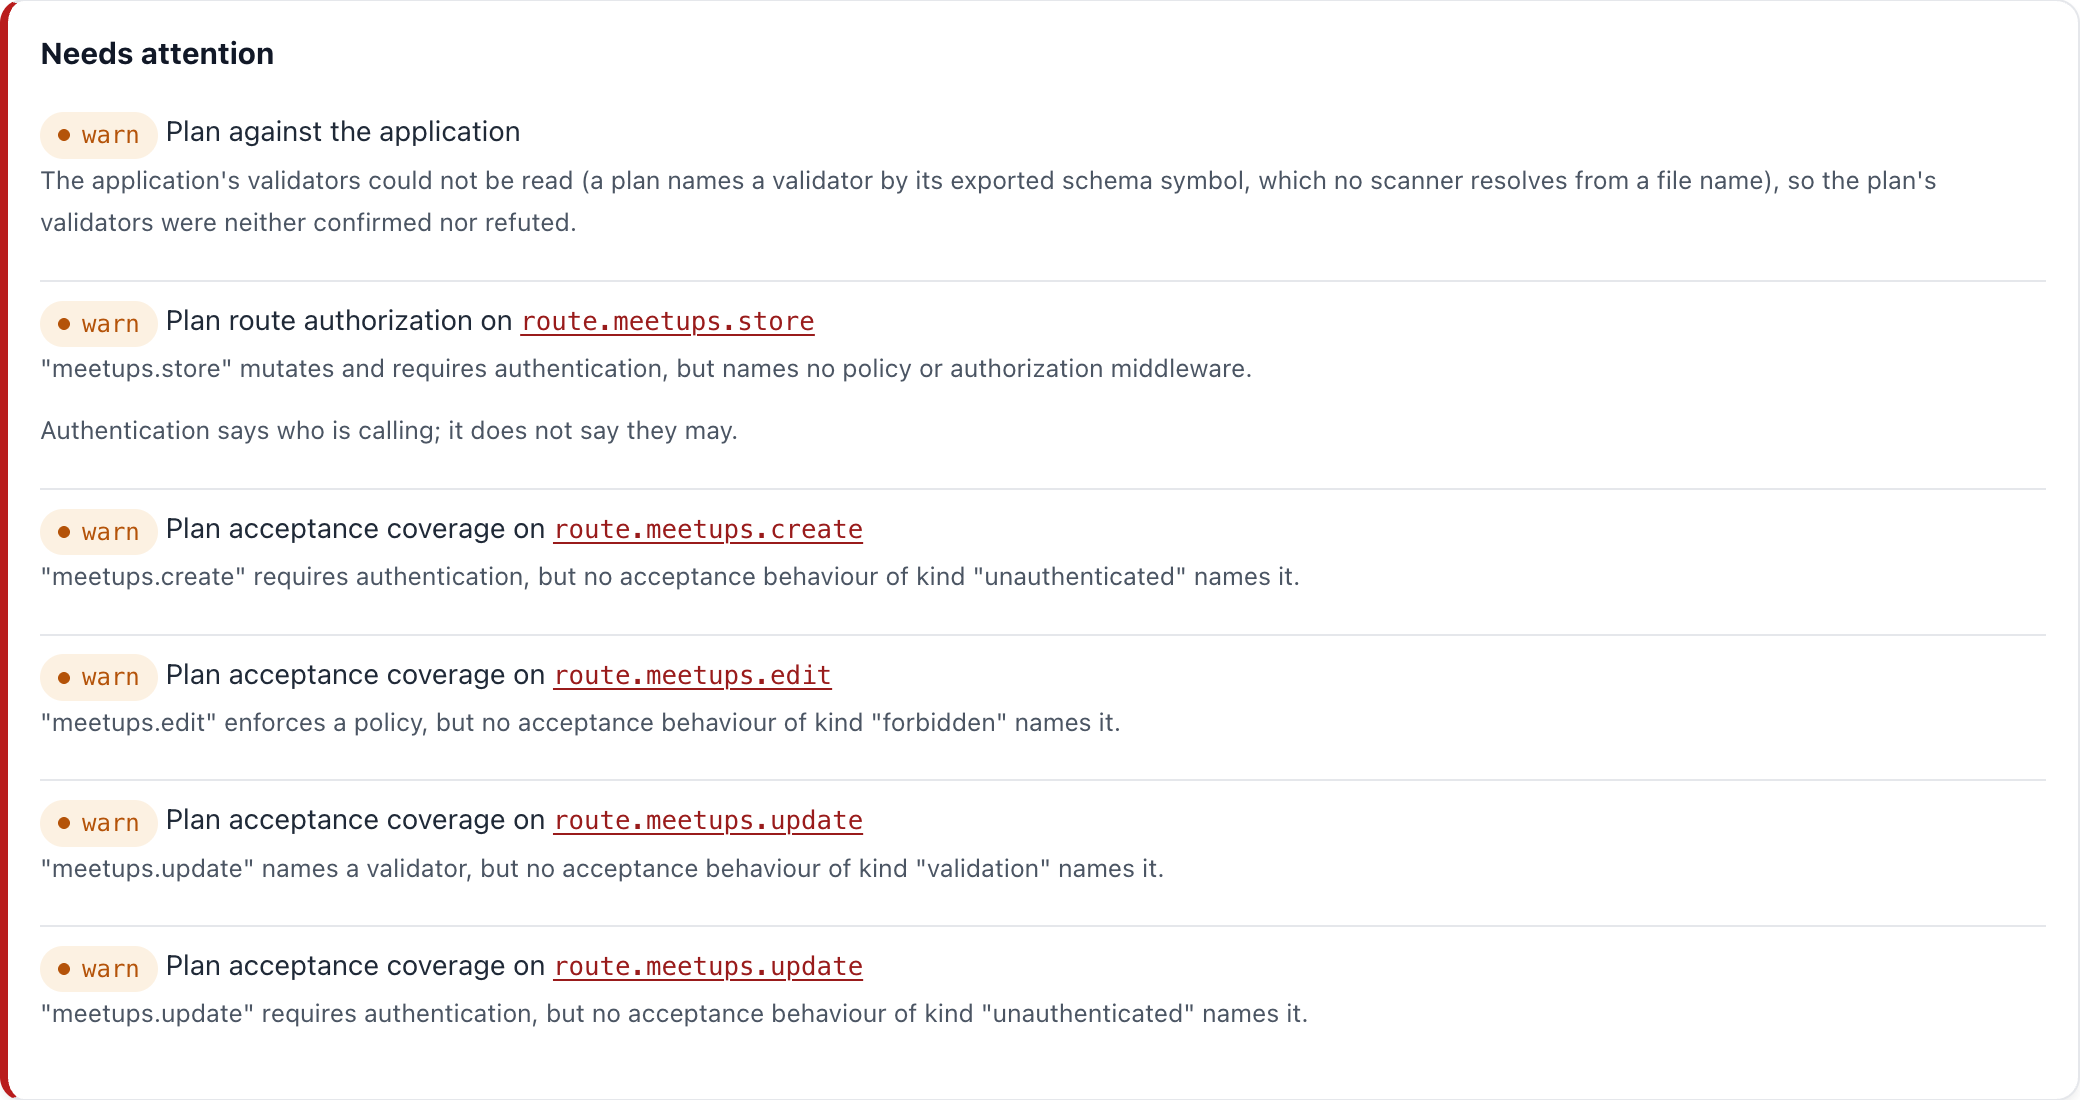
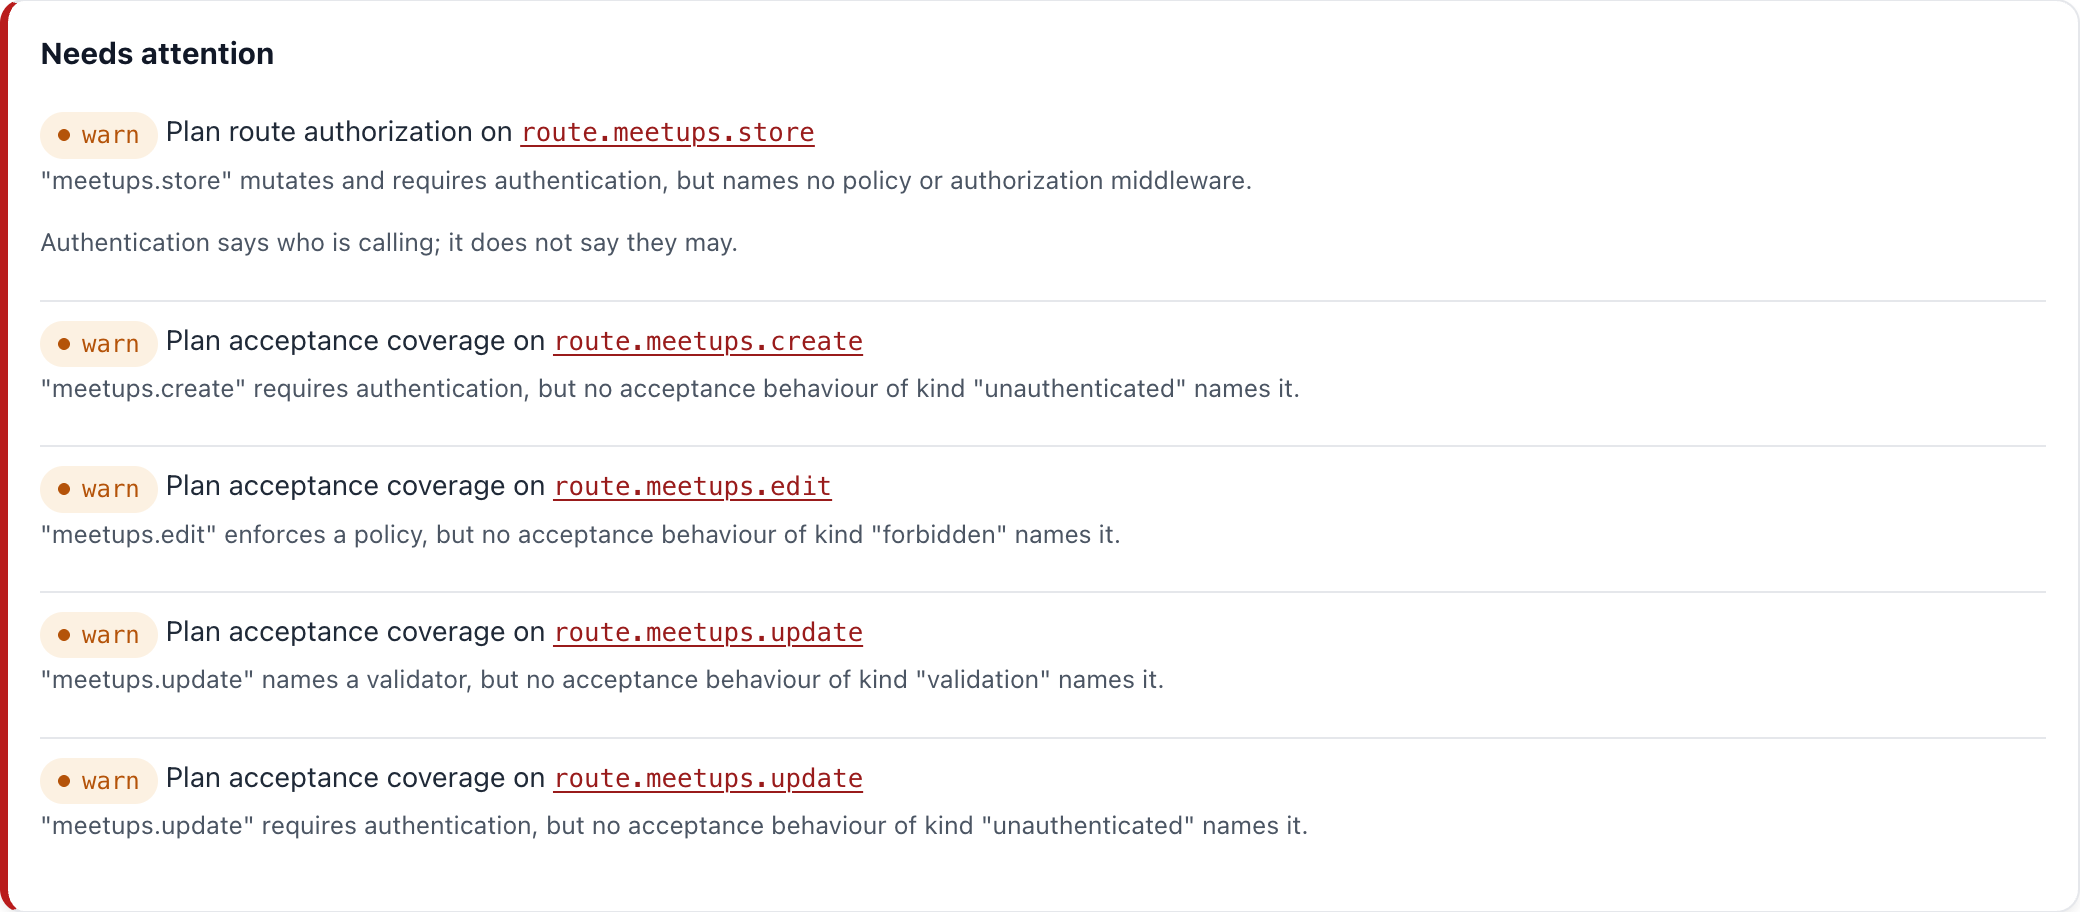
docs: follow the plan fixes in the agent course
The validator warning no longer appears, scaffolded controllers pass
the record to authorize(), test skeletons boot in beforeAll and
expose ready(), and plan:next sends an already scaffolded step to
plan:verify. The chapters, reference tests and the Needs attention
screenshot now describe that behaviour.

Changed region(s): [[0.0, 0.2456, 0.625, 0.7982], [0.0, 0.0307, 0.9375, 0.2149], [0.0, 0.8289, 0.625, 0.9518]]

diff --git a/docs/ja/agent-course/04-one-step-at-a-time.md b/docs/ja/agent-course/04-one-step-at-a-time.md
@@ -78,9 +78,13 @@ import { User, type UserRecord } from '../../../app/Models/User.js'
 
 let booted: Promise<TestApp> | undefined
 
-async function client(actor?: object): Promise<TestApp> {
+function ready(): Promise<TestApp> {
   booted ??= import('../../../src/app.js').then(({ default: app }) => TestApp.fromApp(app))
-  const http = actor === undefined ? await booted : (await booted).actingAs(actor)
+  return booted
+}
+
+async function client(actor?: object): Promise<TestApp> {
+  const http = actor === undefined ? await ready() : (await ready()).actingAs(actor)
   return http.withCsrf()
 }
 
@@ -92,7 +96,7 @@ function meetupBy(organizer: UserRecord) {
 }
 
 beforeEach(async () => {
-  await client()
+  await ready()
   await resetDatabase()
   ada = await User.create({ name: 'Ada', email: 'ada@example.com', password: 'correct horse battery' })
   grace = await User.create({ name: 'Grace', email: 'grace@example.com', password: 'correct horse battery' })
@@ -453,7 +457,7 @@ git show --stat HEAD
 | http | `this.authorize('update', [Meetup, meetup])` がクラスだけでなく **レコード** を渡している。`organizerId` はリクエストではなく `this.auth` から来る。Policy が id を比べている |
 | pages | 普通は特にありません。コマンドが確かめます |
 
-いちばん注意したいのは http の行です。scaffold はスタブの時点でレコードを持たないので、`this.authorize('update', Meetup)` とクラスだけを渡すコードを書きます。このままだと Policy は勉強会を受け取れずに全員を拒否し、主催者も自分の勉強会を編集できません。それでも `forbidden` のテストはすべて通ります。失敗するのは、主催者自身の success 振る舞いである `AC-meetups-7` と `AC-meetups-12` だけです。第 2 章のチェック表の 5 行目が効くのはここです。
+いちばん注意したいのは http の行です。scaffold が書く Policy の `update` は、誰かがルールを書くまで `false` を返します。エージェントがコントローラーだけ書いて Policy を忘れると、誰も編集できない機能ができます。それでも `forbidden` のテストはすべて通ります。全員を拒否すれば、拒否すべきユーザーも拒否されるからです。失敗するのは、主催者自身の success 振る舞いである `AC-meetups-7` と `AC-meetups-12` だけです。第 2 章のチェック表の 5 行目が効くのはここです。
 
 ## 5. 計画の現在地
 
@@ -491,9 +495,9 @@ bun run dev
 
 ## よくあるつまずき
 
-- **すべてのテストが "database has not been configured" で失敗する。** `beforeEach` のセットアップが、アプリの起動前にデータベースに触れています。テストの雛形は `client()` の中で遅れてアプリを起動するので、参照用のテストのように最初に `await client()` を呼んでください。
+- **すべてのテストが "database has not been configured" で失敗する。** 自分で書いた `beforeEach` が、アプリの起動前にデータベースに触れています。雛形の冒頭のコメントと参照用のテストのとおり、最初に `await ready()` を呼んでください。
 - **ツリーが汚れているので `plan:next` が拒否する。** ステップが未コミットのままです。次を頼む前にコミットするか、破棄してください。
-- **http ステップが `AC-meetups-7` か `AC-meetups-12` の 403 で失敗する。** コントローラーがまだ `Meetup` だけを `this.authorize` に渡しています。上の http の行を見てください。
+- **http ステップが `AC-meetups-7` か `AC-meetups-12` の 403 で失敗する。** Policy がまだ `false` を返しているか、コントローラーが `[Meetup, meetup]` ではなく `Meetup` だけを `this.authorize` に渡しています。上の http の行を見てください。
 - **エージェントが同じステップを繰り返す。** 止めるのを 3 回阻まれると、Stop hook はステップを理由付きで stalled と記録し、エージェントを止めます。`plan:next` がその stall を示します。続けるよう伝える前に理由を読んでください。
 
 ## 演習

diff --git a/docs/en/agent-course/04-one-step-at-a-time.md b/docs/en/agent-course/04-one-step-at-a-time.md
@@ -78,9 +78,13 @@ import { User, type UserRecord } from '../../../app/Models/User.js'
 
 let booted: Promise<TestApp> | undefined
 
-async function client(actor?: object): Promise<TestApp> {
+function ready(): Promise<TestApp> {
   booted ??= import('../../../src/app.js').then(({ default: app }) => TestApp.fromApp(app))
-  const http = actor === undefined ? await booted : (await booted).actingAs(actor)
+  return booted
+}
+
+async function client(actor?: object): Promise<TestApp> {
+  const http = actor === undefined ? await ready() : (await ready()).actingAs(actor)
   return http.withCsrf()
 }
 
@@ -92,7 +96,7 @@ function meetupBy(organizer: UserRecord) {
 }
 
 beforeEach(async () => {
-  await client()
+  await ready()
   await resetDatabase()
   ada = await User.create({ name: 'Ada', email: 'ada@example.com', password: 'correct horse battery' })
   grace = await User.create({ name: 'Grace', email: 'grace@example.com', password: 'correct horse battery' })
@@ -453,7 +457,7 @@ git show --stat HEAD
 | http | `this.authorize('update', [Meetup, meetup])` passes the **record**, not just the class. `organizerId` comes from `this.auth`, never from the request. The policy compares ids |
 | pages | Nothing, usually. The commands are the check |
 
-The http row carries the rule most worth your attention. The scaffold writes `this.authorize('update', Meetup)`, with the class and no record, because the stub has no record yet. Left that way, the policy gets no meetup, denies everyone, and the organizer cannot edit their own meetup. Every `forbidden` test still passes. Only `AC-meetups-7` and `AC-meetups-12`, the organizer's own success behaviours, fail on it. That is row 5 of the checklist in chapter 2, paying off.
+The http row carries the rule most worth your attention. The scaffold writes a policy whose `update` returns `false` until someone writes the rule. An agent that fills in the controller and forgets the policy leaves a feature nobody can edit, and every `forbidden` test still passes, since refusing everyone refuses the wrong user too. Only `AC-meetups-7` and `AC-meetups-12`, the organizer's own success behaviours, fail on it. That is row 5 of the checklist in chapter 2, paying off.
 
 ## 5. Where the plan stands
 
@@ -491,9 +495,9 @@ Sign up at `/register`, then open `/meetups`.
 
 ## Common trip-ups
 
-- **Every test fails with "database has not been configured".** The setup in `beforeEach` touches the database before the app has booted. The test skeleton boots it lazily in `client()`; call `await client()` first, as the reference test does.
+- **Every test fails with "database has not been configured".** A `beforeEach` of your own touched the database before the app booted. Start it with `await ready()`, as the skeleton's header comment says and the reference test does.
 - **`plan:next` refuses because the tree is dirty.** A step was left uncommitted. Commit it, or discard it, before asking for the next one.
-- **The http step fails on `AC-meetups-7` or `AC-meetups-12` with a 403.** The controller still passes `Meetup` alone to `this.authorize`. See the http row above.
+- **The http step fails on `AC-meetups-7` or `AC-meetups-12` with a 403.** The policy still returns `false`, or the controller passes `Meetup` alone to `this.authorize` instead of `[Meetup, meetup]`. See the http row above.
 - **The agent keeps retrying the same step.** After three blocked stops, the Stop hook records the step as stalled with the reason, and lets the agent stop. `plan:next` shows the stall. Read the reason before telling the agent to go on.
 
 ## Exercises

diff --git a/docs/ja/agent-course/02-the-first-plan.md b/docs/ja/agent-course/02-the-first-plan.md
@@ -429,7 +429,7 @@ open docs/plans/meetups/plan.html
 
 ページはネットワークにアクセスしないので、そのままレビュー依頼に添付できます。
 
-![Meetups 計画のレビューページの上部。目標、非目標、前提の下に「Needs attention」パネルがあり、警告が 6 件並んでいます。validator を読めないという警告が 1 件、meetups.store に policy がないという警告が 1 件、ある種類の受け入れ振る舞いがないルートについての警告が 4 件です](../../images/agent-course-needs-attention.png)
+![Meetups 計画のレビューページの「Needs attention」パネル。警告が 5 件並んでいます。meetups.store に policy がないという警告が 1 件、ある種類の受け入れ振る舞いがないルートについての警告が 4 件です](../../images/agent-course-needs-attention.png)
 
 ## 4. この順番で読む
 
@@ -451,7 +451,6 @@ open docs/plans/meetups/plan.html
 
 | 警告 | 判断 |
 |---|---|
-| The application's validators could not be read | 想定内です。Guren はまだ計画の validator を既存のファイルと照合しないので、validator を持つ計画にはいつも出ます |
 | `meetups.store` に policy がない | 選択です。サインインしたユーザーなら誰でも勉強会を主催できます。このままにします |
 | `meetups.create` と `meetups.update` に `unauthenticated`、`meetups.edit` に `forbidden`、`meetups.update` に `validation` の振る舞いがない | 誤りです。テストのないルールです |
 

diff --git a/docs/en/agent-course/07-when-the-application-moves.md b/docs/en/agent-course/07-when-the-application-moves.md
@@ -40,9 +40,13 @@ import { User, type UserRecord } from '../../../app/Models/User.js'
 
 let booted: Promise<TestApp> | undefined
 
-async function client(actor?: object): Promise<TestApp> {
+function ready(): Promise<TestApp> {
   booted ??= import('../../../src/app.js').then(({ default: app }) => TestApp.fromApp(app))
-  const http = actor === undefined ? await booted : (await booted).actingAs(actor)
+  return booted
+}
+
+async function client(actor?: object): Promise<TestApp> {
+  const http = actor === undefined ? await ready() : (await ready()).actingAs(actor)
   return http.withCsrf()
 }
 
@@ -63,7 +67,7 @@ function count() {
 }
 
 beforeEach(async () => {
-  await client()
+  await ready()
   await resetDatabase()
   ada = await User.create({ name: 'Ada', email: 'ada@example.com', password: 'correct horse battery' })
   grace = await User.create({ name: 'Grace', email: 'grace@example.com', password: 'correct horse battery' })
@@ -467,7 +471,6 @@ The waiver goes to `decisions.json` beside the plan and is committed. It names t
 ## Common trip-ups
 
 - **The agent "fixes" a held step by renaming the route back.** That undoes a teammate's work without asking. Tell it which option you chose.
-- **`plan:next` names a step you already built and says to run `plan:scaffold`.** After a revision the old records no longer stand. `plan:scaffold` refuses the second run and says to verify instead; do that.
 - **`plan:next` refuses because `.guren/*.gen.ts` changed.** A commit changed routes without running codegen. Run `bunx guren codegen` and commit the generated files.
 
 ## Exercises

diff --git a/docs/en/agent-course/02-the-first-plan.md b/docs/en/agent-course/02-the-first-plan.md
@@ -429,7 +429,7 @@ open docs/plans/meetups/plan.html
 
 The page makes no network requests, so you can attach it to a review as it is.
 
-![The top of the review page for the Meetups plan: the goals, non-goals and assumptions, then a "Needs attention" panel listing six warnings, one about unreadable validators, one about meetups.store having no policy, and four about routes with no acceptance behaviour of some kind](../../images/agent-course-needs-attention.png)
+![The "Needs attention" panel of the review page for the Meetups plan, listing five warnings: one about meetups.store having no policy and four about routes with no acceptance behaviour of some kind](../../images/agent-course-needs-attention.png)
 
 ## 4. Read it in this order
 
@@ -451,7 +451,6 @@ For this plan, the warnings say:
 
 | Warning | Verdict |
 |---|---|
-| The application's validators could not be read | Expected. Guren does not match plan validators to existing files yet, so this appears on every plan with a validator |
 | `meetups.store` names no policy | A choice: any signed-in user may organize a meetup. Keep it |
 | `meetups.create` / `meetups.update` have no `unauthenticated` behaviour, `meetups.edit` no `forbidden`, `meetups.update` no `validation` | Mistakes. These are rules with no test yet |
 

diff --git a/docs/ja/agent-course/03-review-and-approve.md b/docs/ja/agent-course/03-review-and-approve.md
@@ -63,7 +63,7 @@ EOF
 bunx guren plan:render docs/plans/meetups/plan.json
 ```
 
-ブラウザで再読み込みします。**Needs attention** に残る警告は 2 件です。どの計画にも出る validator の警告と、残すと決めた `meetups.store` の policy の警告です。**Tasks & acceptance** には振る舞いが 12 件並びます。
+ブラウザで再読み込みします。**Needs attention** に残る警告は、残すと決めた `meetups.store` の policy の警告 1 件だけです。**Tasks & acceptance** には振る舞いが 12 件並びます。
 
 リビジョンはデータとしてディスクにあるので、エージェントが何をしたか正確に読めます。
 

diff --git a/docs/en/agent-course/03-review-and-approve.md b/docs/en/agent-course/03-review-and-approve.md
@@ -63,7 +63,7 @@ Render the page again:
 bunx guren plan:render docs/plans/meetups/plan.json
 ```
 
-Reload it in the browser. **Needs attention** now holds two warnings: the validator one, which every plan shows, and the `meetups.store` policy one you kept. **Tasks & acceptance** lists twelve behaviours.
+Reload it in the browser. **Needs attention** now holds one warning: the `meetups.store` policy one you kept. **Tasks & acceptance** lists twelve behaviours.
 
 The revision is on disk as data, so you can read exactly what the agent did:
 
